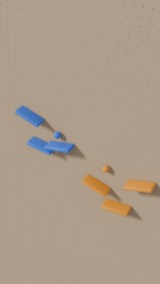
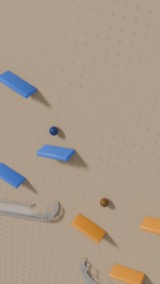
#11 UX round 8: example stills re-rendered in each fixture's own theme, so Jingle Bells shows its cream and red; loop still and the picker's unused prop removed

diff --git a/apps/midimarble-v4/src/modules/design/TilePicker.tsx b/apps/midimarble-v4/src/modules/design/TilePicker.tsx
@@ -1,9 +1,8 @@
-import { Box, ChevronDown, PackagePlus, Search, Star } from 'lucide-react';
+import { Box, ChevronDown, Search, Star } from 'lucide-react';
 import React from 'react';
 import { createPortal } from 'react-dom';
 import { openContextMenu, type TMenuEntry } from '@/components';
 import { InsertPopover } from '@/modules/compose/InsertLibrary';
-import type { StudioCx } from '@/modules/studio';
 import { filterTiles, showsTileSearch } from './skin-tiles';
 
 /** A tile's quiet second line; with `onClick` a link inside the tile, as a tile is one big button */
@@ -50,7 +49,6 @@ export interface TPickerTile {
  * with the choices as pictures. A pick applies and closes it, ⌥ applies to all of a type, Esc or a click outside cancels.
  */
 export const TilePicker: React.FC<{
-	cx: StudioCx;
 	/** The row's element id, for ⌘K to focus it */
 	id?: string;
 	/** The panel's heading, such as "Skin" */
@@ -66,7 +64,7 @@ export const TilePicker: React.FC<{
 	/** Beside the row, such as Reset */
 	accessory?: React.ReactNode;
 }> = (props) => {
-	const { cx, id, heading, label, current, title, tiles, footer, accessory } = props;
+	const { id, heading, label, current, title, tiles, footer, accessory } = props;
 	const [isOpen, setIsOpen] = React.useState(false);
 	const rowRef = React.useRef<HTMLButtonElement>(null);
 	const close = React.useCallback(() => setIsOpen(false), []);
@@ -81,13 +79,13 @@ export const TilePicker: React.FC<{
 				<ChevronDown size={12} strokeWidth={2} className="shrink-0 text-[var(--text-tertiary)]" />
 			</button>
 			{accessory}
-			{isOpen ? createPortal(<PickerPanel cx={cx} heading={heading} label={label} anchor={rowRef} tiles={tiles} footer={footer} onClose={close} />, document.body) : null}
+			{isOpen ? createPortal(<PickerPanel heading={heading} label={label} anchor={rowRef} tiles={tiles} footer={footer} onClose={close} />, document.body) : null}
 		</div>
 	);
 };
 
-const PickerPanel: React.FC<{ cx: StudioCx; heading: string; label: string; anchor: React.RefObject<HTMLButtonElement | null>; tiles: readonly TPickerTile[]; footer?: React.ReactNode; onClose: () => void }> = (props) => {
-	const { cx, heading, label, anchor, tiles, footer, onClose } = props;
+const PickerPanel: React.FC<{ heading: string; label: string; anchor: React.RefObject<HTMLButtonElement | null>; tiles: readonly TPickerTile[]; footer?: React.ReactNode; onClose: () => void }> = (props) => {
+	const { heading, label, anchor, tiles, footer, onClose } = props;
 	const [query, setQuery] = React.useState('');
 	const [isDragging, setIsDragging] = React.useState(false);
 	const shown = filterTiles(tiles, query);

diff --git a/apps/midimarble-v4/src/modules/design/SkinPickers.tsx b/apps/midimarble-v4/src/modules/design/SkinPickers.tsx
@@ -79,7 +79,7 @@ export const SkinPicker: React.FC<{ cx: StudioCx; project: TProject; element: TS
 	const only = worn.size === 1 ? [...worn][0] : undefined;
 	const fallback = only != null ? (catalogSkin(only)?.label ?? only) : 'Mixed';
 
-	return <TilePicker cx={cx} heading="Skin" label={`${typeLabel} skins`} current={currentOf(tiles, fallback)} title={`Choose the ${typeLabel.toLowerCase()}'s skin`} tiles={tiles} />;
+	return <TilePicker heading="Skin" label={`${typeLabel} skins`} current={currentOf(tiles, fallback)} title={`Choose the ${typeLabel.toLowerCase()}'s skin`} tiles={tiles} />;
 };
 
 /** A skin from a Pack, made by an agent or imported, with where it comes from and its star */
@@ -132,7 +132,7 @@ export const WallPicker: React.FC<{ cx: StudioCx; project: TProject }> = (props)
 			if (commands.length > 0) cx.execute(commands);
 		}
 	}));
-	return <TilePicker cx={cx} heading="Skin" label="Wall skins" current={currentOf(tiles, 'Mixed')} title="Choose the wall's skin" tiles={tiles} />;
+	return <TilePicker heading="Skin" label="Wall skins" current={currentOf(tiles, 'Mixed')} title="Choose the wall's skin" tiles={tiles} />;
 };
 
 /** A wall's kind in small: the walls have no rendered previews */

diff --git a/apps/midimarble-v4/src/modules/compose/canvas-fit.test.ts b/apps/midimarble-v4/src/modules/compose/canvas-fit.test.ts
@@ -6,7 +6,6 @@ import { fitTargets, nearestMoment, struckAt } from './scene';
 import { placeBar } from './view';
 
 const viewport = { width: 800, height: 600 };
-const padding = { top: 50, right: 50, bottom: 50, left: 50 };
 
 describe('fitTargets', () => {
 	function openHit(laneId: string, time: number, y: number, pieceEntityId: string | null = null): THitResult {

diff --git a/apps/midimarble-v4/src/modules/design/ThemePanel.tsx b/apps/midimarble-v4/src/modules/design/ThemePanel.tsx
@@ -74,7 +74,6 @@ export const ThemeRow: React.FC<{ cx: StudioCx; project: TProject }> = (props) =
 
 	return (
 			<TilePicker
-				cx={cx}
 				id="scene-theme"
 				heading="Theme"
 				label="Themes"

diff --git a/apps/midimarble-v4/docs/progress.md b/apps/midimarble-v4/docs/progress.md
@@ -2,6 +2,12 @@
 
 The autonomous build updates this log after every slice. Newest entries go first.
 
+## UX review round 8 fixes
+
+B3 to B7, F1 to F10 and the polish list of `.local/ux-review-round8.md`, seen in the browser (F5's click selected correctly as it stood; only Layers selection off-frame was missing). T stays a hit at the playhead while stopped. Starter gained Sphere, Ring and Cube. The Bass warning came from measuring a glass marble's pale tint by lightness; the 3:1 threshold is unchanged and glass is judged by its swirl's colour. Example stills re-rendered in each fixture's own theme (they were all exported in Brass) and `loop.jpg` removed. Project themes still show their base theme's picture in the Theme picker.
+
+Checks: typecheck, lint, test, `check_decor.py`. Skipped: `test:e2e`, as nothing here touches a whole song's build. B1 and B2 are handled separately.
+
 ## Current state
 
 - Milestones: M0–M5 done in the browser and headless Blender; M6 done by the owner's revised check (Camera view, Draft Preview and quick renders; the `reference-20` Best film exists as well). Still unverified in the native window: the round 2–3 UI, export through the sheet, a real agent run from the chat and the unsaved-example save panel
